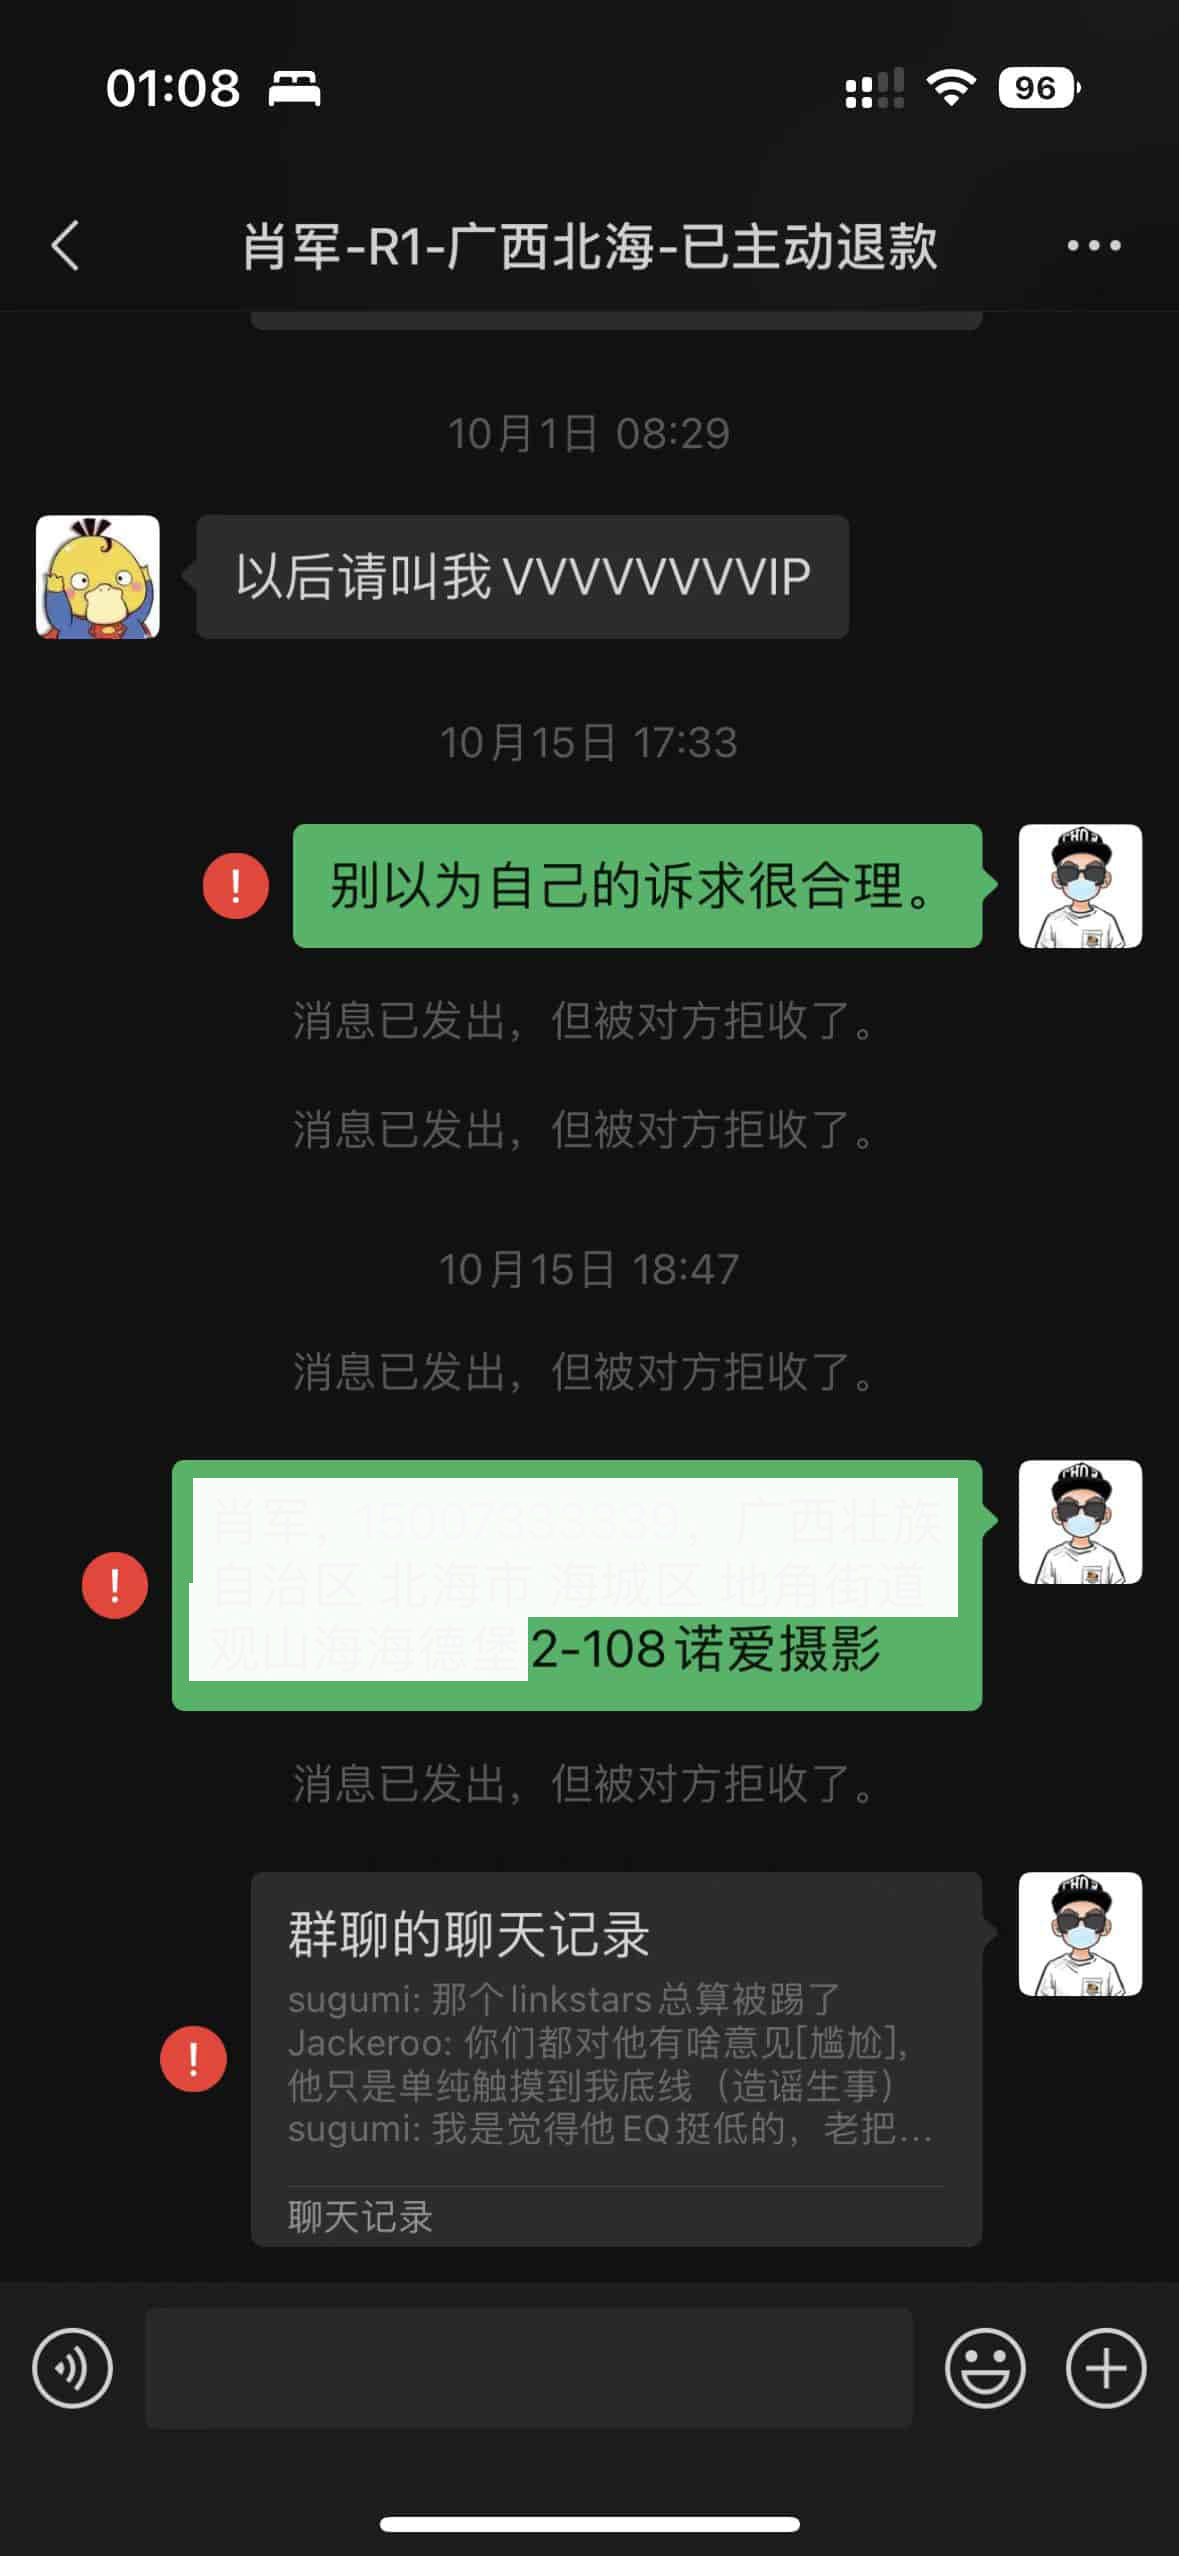
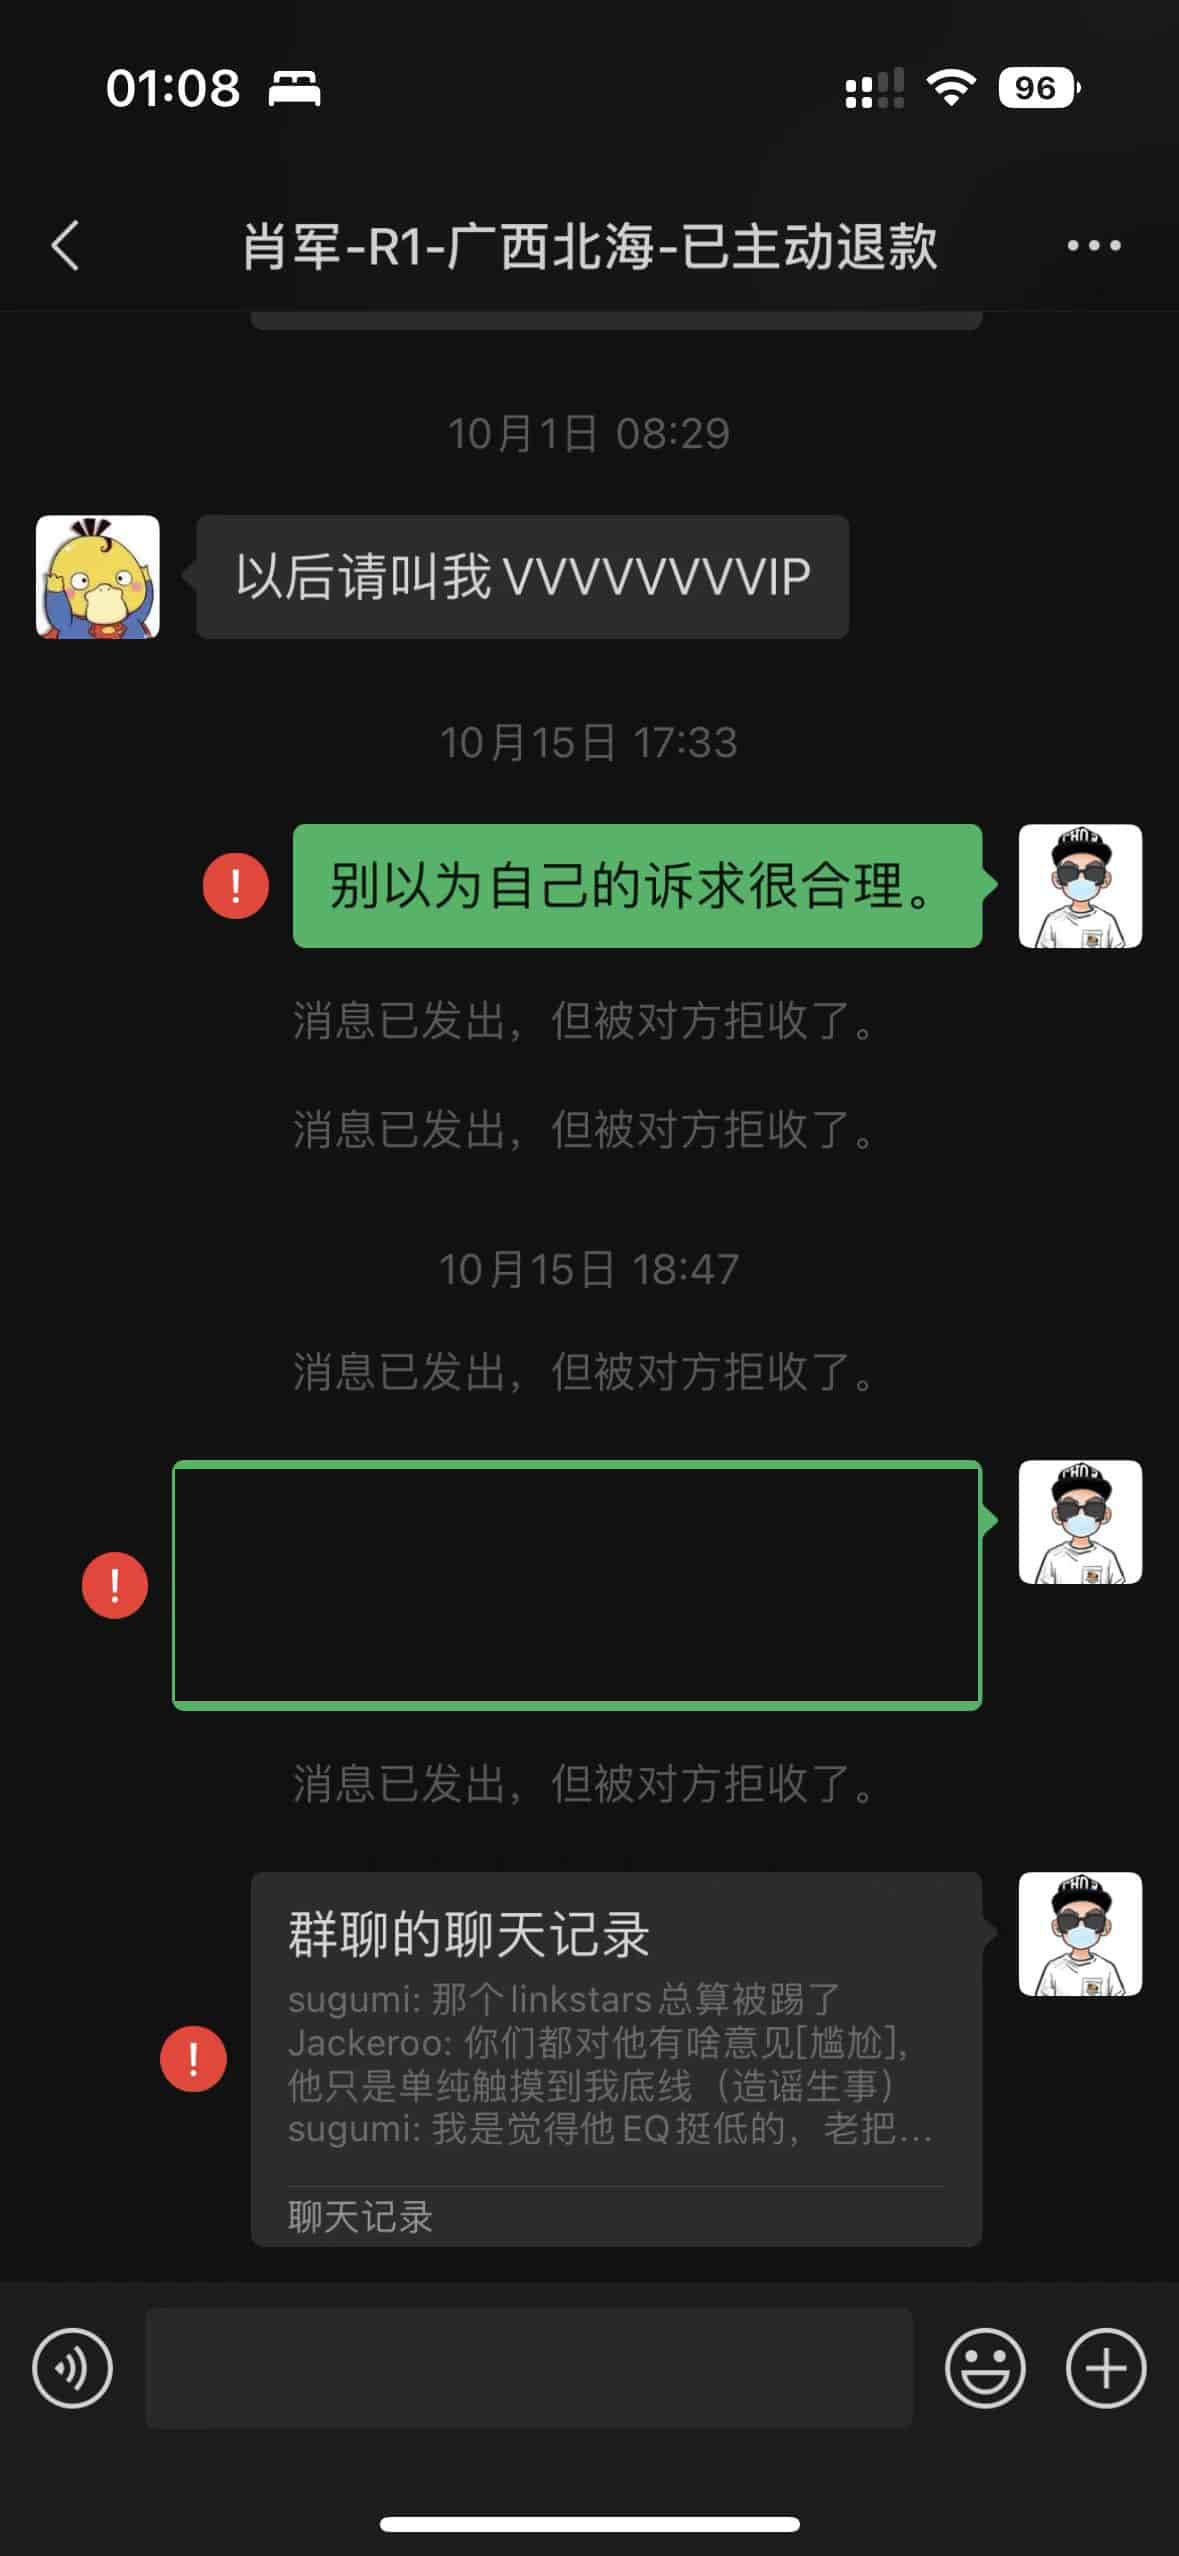
update dogxiao

Changed region(s): [[0.1221, 0.5563, 0.855, 0.68]]

diff --git a/docs/support/service.md b/docs/support/service.md
@@ -8,10 +8,10 @@
 >
 >   - 示例1 `hostloc(MJJ)`   [`溜溜球`](https://hostloc.com/thread-1062216-1-1.html)： <small>**[关于 前几天开车的软路由 价格高的离谱 群已被踢](https://hostloc.com/thread-1062216-1-1.html)**</small> <br>点评：`脑残逻辑 让人笑话` <br>
 >   
->   - 示例2：`肖军-广西北海（什么值得买App账号：值友205432779）` **<small>[点此跳转TA个人值得买主页](https://zhiyou.smzdm.com/member/5631563959/) | [点此跳转查看他的评论（需查找）](https://post.smzdm.com/p/a7ndo0m9/)</small>**<br>**<small>[吃瓜点此](https://github.com/KoolCore/ikoolcore/blob/main/docs/dogxiao.md)（包让你们见识啥不要脸，啥叫垃圾佬，刷新三观下限）</small>**
->     - 微信昵称：linkstars
->     - 微信ID：bybypq
->     - 电话：150xxxx3339（**xxxx为当地区号**，为保护这位广西仔的隐私，止步于此。）
+>   - 示例2：`某军-广西北海` **<small>此人已认怂，主动删除了张大妈、B站和YouTube上所有恶评，这里不放链接了。</small>**<br>**<small>[吃瓜点此](https://github.com/KoolCore/ikoolcore/blob/main/docs/dogxiao.md)（包让你们见识啥不要脸，啥叫垃圾佬，刷新三观下限）</small>** `正在处理当事人相关信息...`
+>     - 微信昵称：`此人已认怂，暂时隐藏`
+>     - 微信ID：`此人已认怂，暂时隐藏`
+>     - 电话：`此人已认怂，暂时隐藏`
 
 
 
